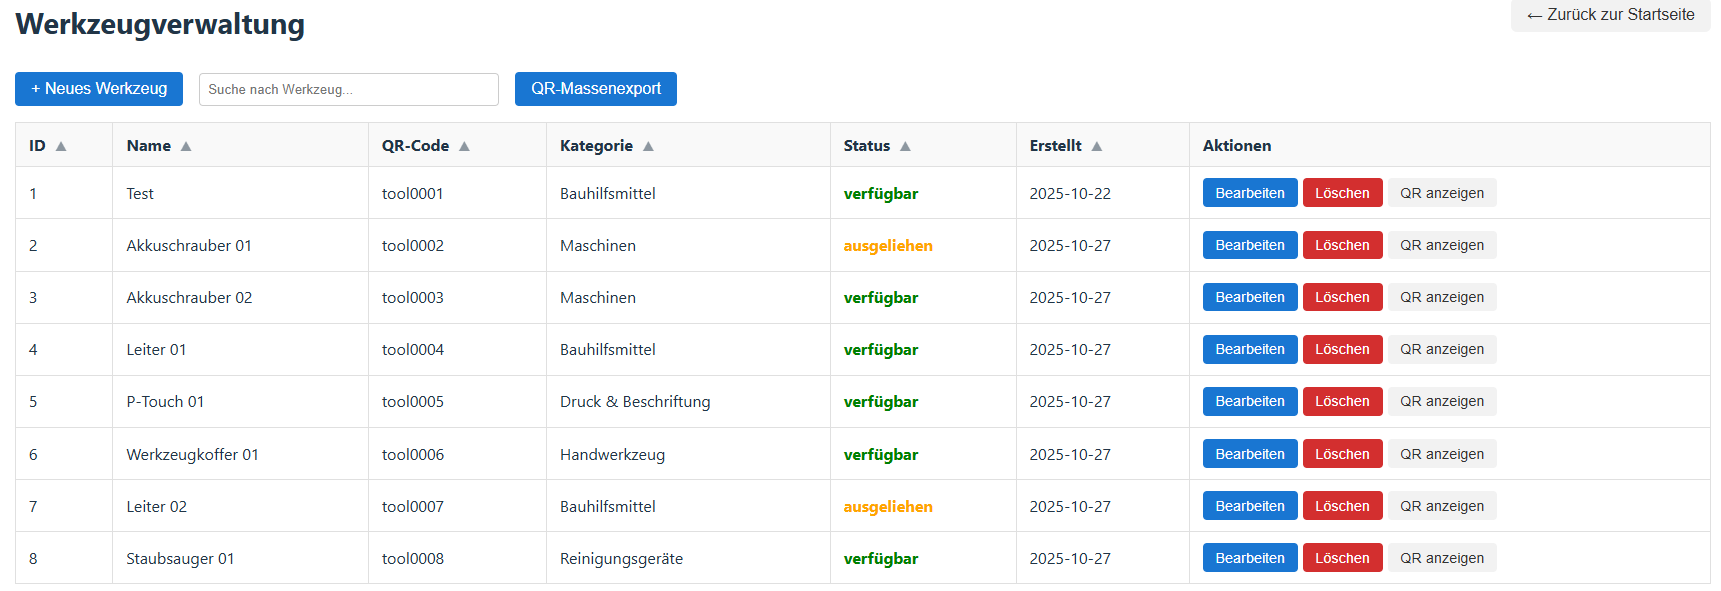
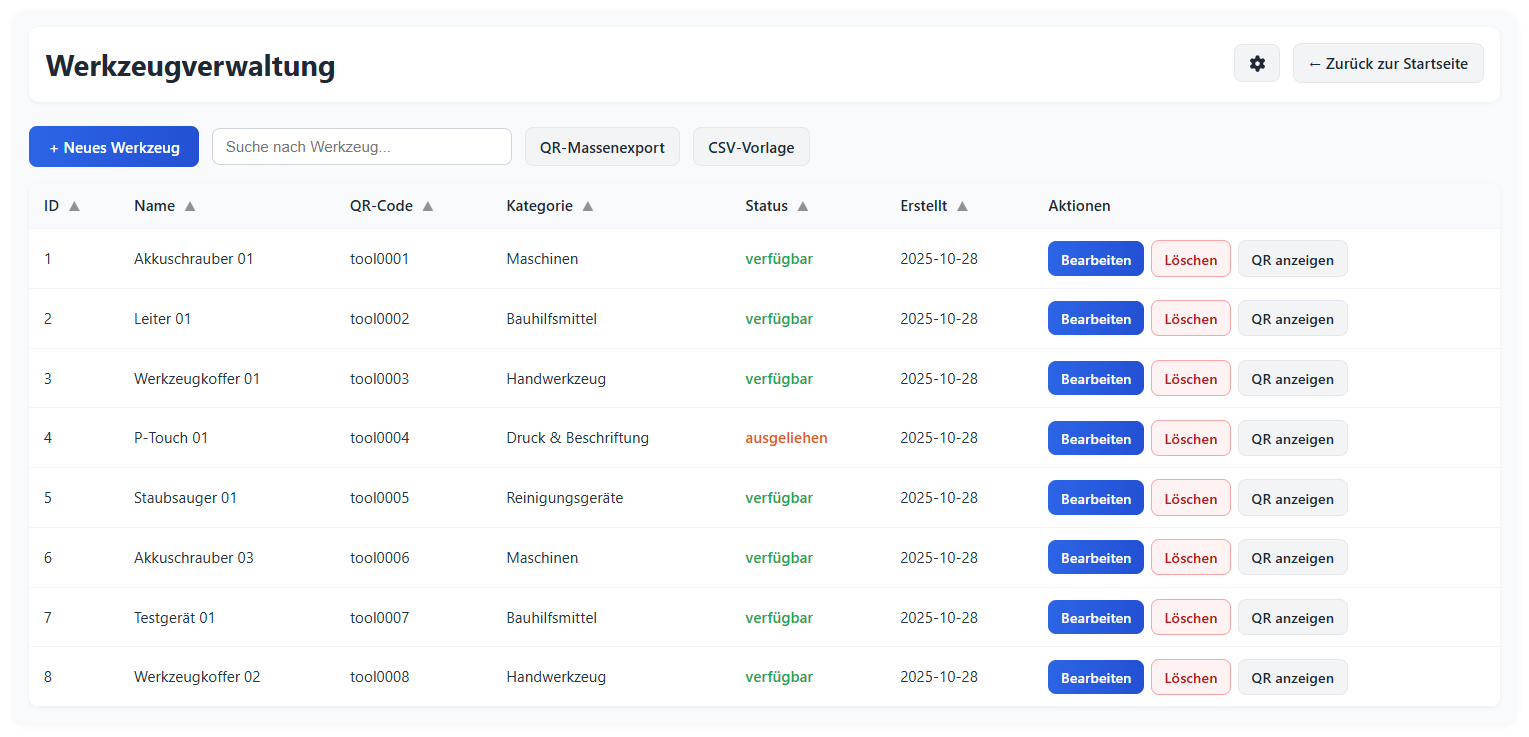
screenshots aktualisiert, README update

diff --git a/README.md b/README.md
@@ -282,11 +282,11 @@ sudo nginx -t && sudo systemctl restart nginx
 
 - [x] CSV-Import für Benutzer und Werkzeuge
 - Fehler-Log-Anzeige im Adminpanel
-- Responsive Redesign für mobile Geräte
+- [x] Responsive Redesign für mobile Geräte
 - Notizen für reservationen fixen -> werden aktuell nicht gespeichert
 - create_reservations Rechte in manuelle reservation einbauen, damit auch Admins oder Supervisor für andere User reservieren können.
 - "Last Login" Datum bei Profilen einfügen und speichern für Kontrolle auf inaktive Konten.
-- Admin Buttons abhängig von Rollen machen (sichtbarkeit der Adminpages je nach berechtigungen des eingeloggten Users)
+- [x] Admin Buttons abhängig von Rollen machen (sichtbarkeit der Adminpages je nach berechtigungen des eingeloggten Users)
 - Reservationen bearbeiten wenn möglich mit "isediting" versehen. Dass popup bei anderen dann ebenfalls für bearbeitung geblockt ist
 - alle User können alle Rückgaben tätigen (momentan wenn user eingeloggt nur die eigenen)
 - Fehler abfangen, wenn User gelöscht wird mit aktuellen Reservationen -> zus. Reservationen dieses Users mitlöschen
